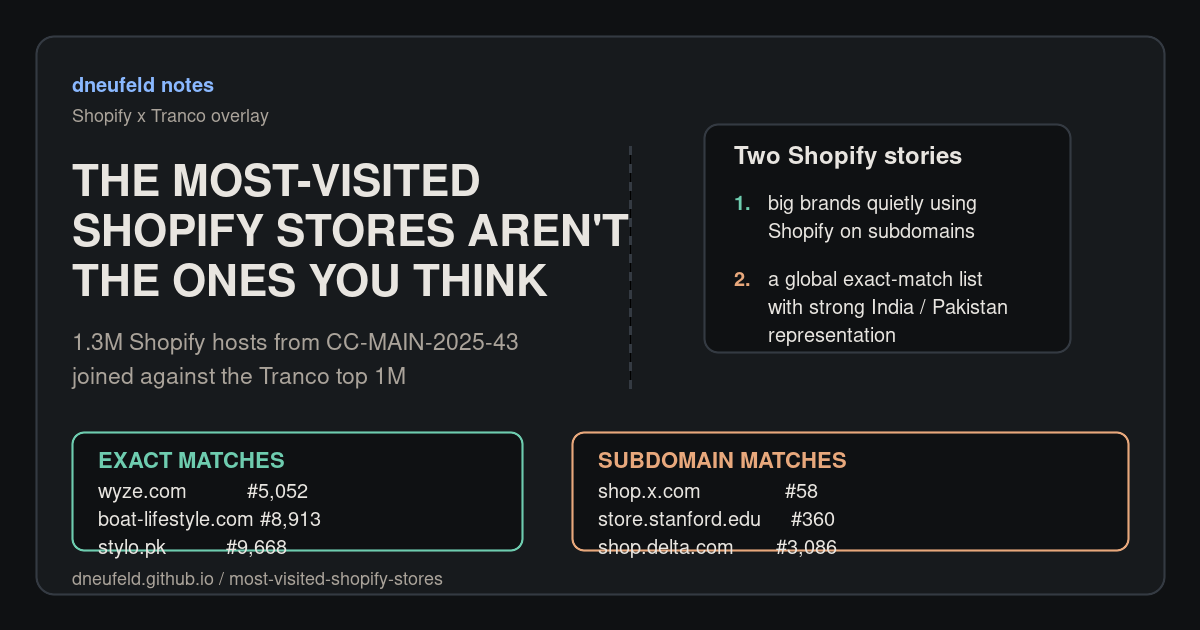
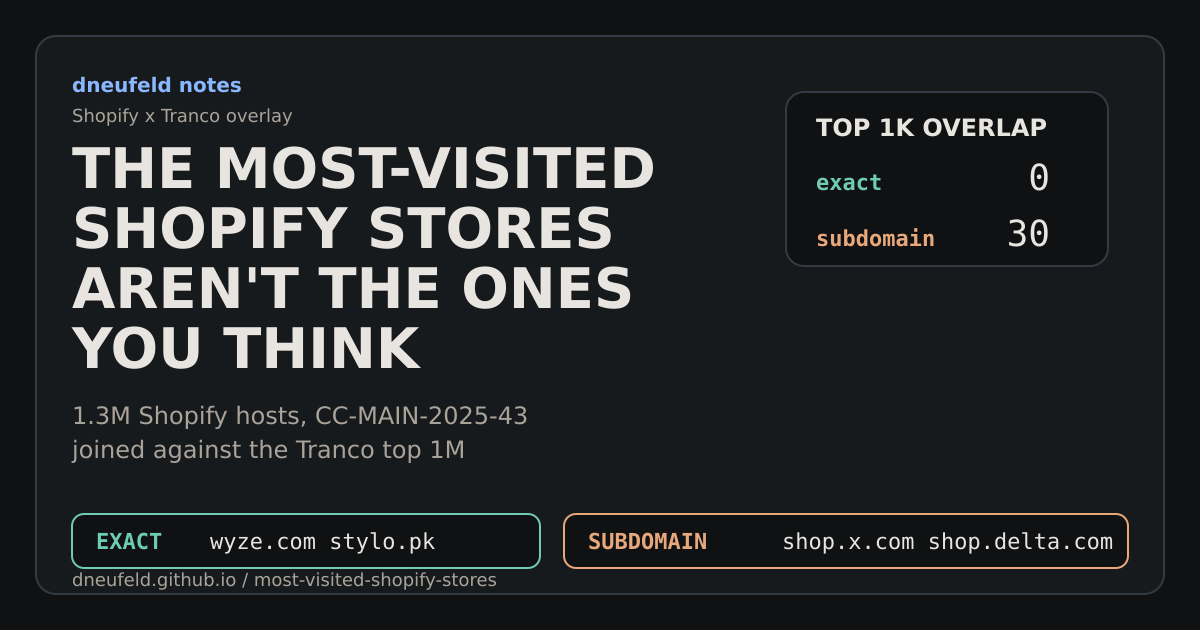
Replace social cards for post 1 and post 2

diff --git a/_posts/2026-03-11-common-crawl-shopify-llms.md b/_posts/2026-03-11-common-crawl-shopify-llms.md
@@ -3,7 +3,7 @@ layout: post
 title: "I Scanned 34.6 Billion Web Pages and Found Shopify Disappearing from Common Crawl"
 permalink: /common-crawl-shopify-llms/
 description: "I scanned 34.6 billion pages and found Common Crawl's Shopify coverage dropped sharply in late 2025."
-image: /assets/pipeline-diagram.png
+image: /assets/common-crawl-shopify-card.png
 ---
 
 *Disclosure: I'm a former Shopify employee and current shareholder. This is not financial advice.*
